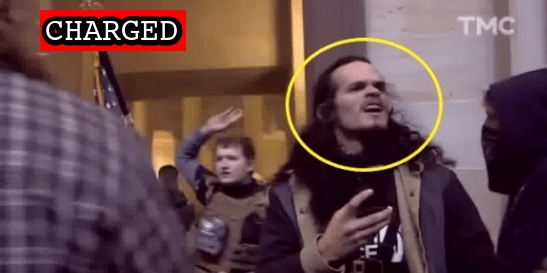
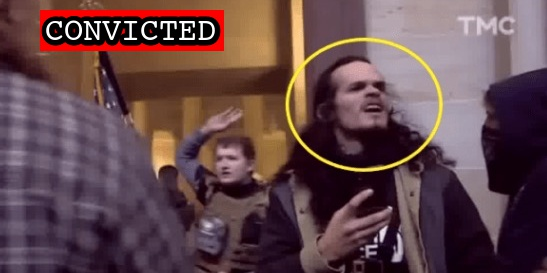
Latest import

Changed region(s): [[0.0932, 0.0293, 0.4351, 0.2051]]

diff --git a/commands/suspect-convict.ts b/commands/suspect-convict.ts
@@ -17,7 +17,7 @@ const convict = async () => {
     exitWithError("No such suspect");
   }
 
-  if (suspect.convicted) {
+  if (suspect.convicted && suspect.sentencing) {
     exitWithError("Suspect already convicted");
   }
 

diff --git a/docs/_suspects/jacob-garcia.md b/docs/_suspects/jacob-garcia.md
@@ -4,11 +4,11 @@ lastName: Garcia
 hashtag:
 aka:
 residence: Texas
-status: Charged
+status: Convicted
 date: 2022-03-07
 charged: 2022-03-07
 indicted:
-convicted:
+convicted: 2022-10-20
 acquitted:
 sentenced:
 dismissed:
@@ -40,7 +40,14 @@ caseName: USA v. GARCIA
 judge: Dabney L. Friedrich
 videos:
 charges:
+- code: 40 USC § 5104(e)(2)(G)
+  title: Parading, demonstrating or picketing in a Capitol building
+  url: https://www.law.cornell.edu/uscode/text/40/5104
+  felony: false
 sentence:
 ---
 - [News Report](https://www.cbsnews.com/dfw/news/facebook-posts-lead-to-arrest-of-burleson-man-charged-in-capitol-attack/)
 - [Statement of Facts](https://www.justice.gov/usao-dc/case-multi-defendant/file/1486336/download)
+- [Information](https://www.justice.gov/usao-dc/case-multi-defendant/file/1545806/download)
+- [Plea Agreement](https://www.justice.gov/usao-dc/case-multi-defendant/file/1545796/download)
+- [Statement of Offense](https://www.justice.gov/usao-dc/case-multi-defendant/file/1545801/download)
